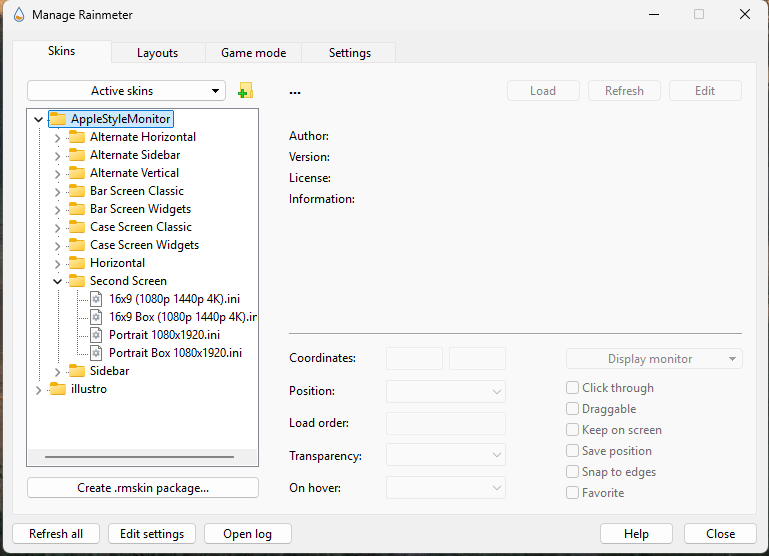
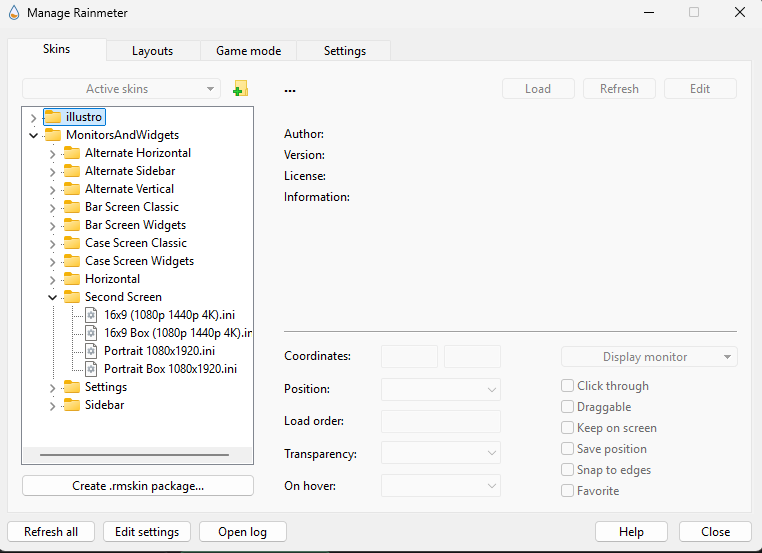
pics

diff --git a/README.md b/README.md
@@ -18,6 +18,12 @@ Hey! 👋 Clean, Apple-style performance stats for your PC: overlays for **RivaT
 
 <p align="center"><a href="#get-started"><b>⬇ Get started</b></a> · <a href="#whats-new"><b>🆕 What's new</b></a> · <a href="#themes"><b>🎨 Themes</b></a> · <a href="#troubleshooting"><b>🛠 Troubleshooting</b></a></p>
 
+### 🎮 In game
+
+<p align="center"><img src="previews/ingame/essential_sleek_clear.png" alt="Essential Sleek, Clear theme, in game"><br><sub><b>🟢 Essential Sleek</b> · Clear theme · 5120×1440</sub></p>
+
+<p align="center"><img src="previews/ingame/volt_sleek_compact_dark.png" alt="Volt Sleek Compact, Dark theme, in game"><br><sub><b>⚡ Volt Sleek Compact</b> · Dark theme · 5120×1440</sub></p>
+
 **Not sure?** Pick **🟢 Essential**: it's the easiest to set up. Want to keep an eye on your 12V-2x6 / 12VHPWR cable? Pick **⚡ Volt**.
 
 If you like them, a ⭐ on GitHub or sharing them with a friend means a lot!
